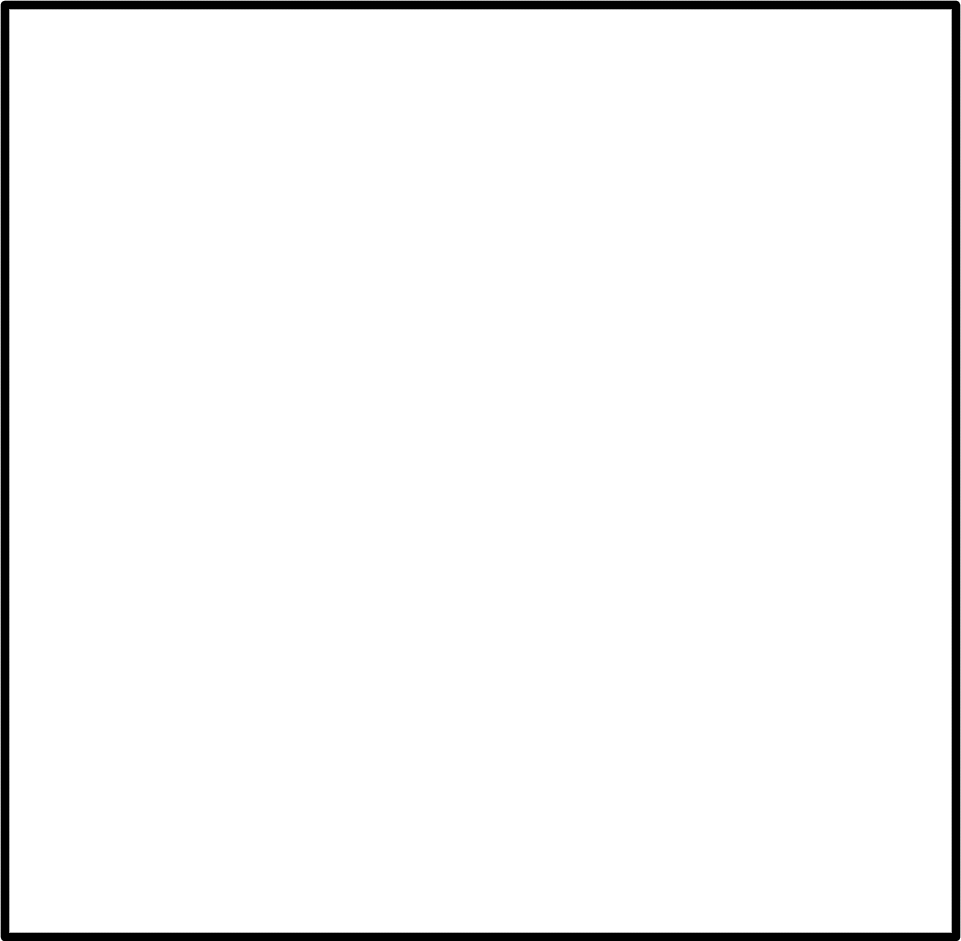
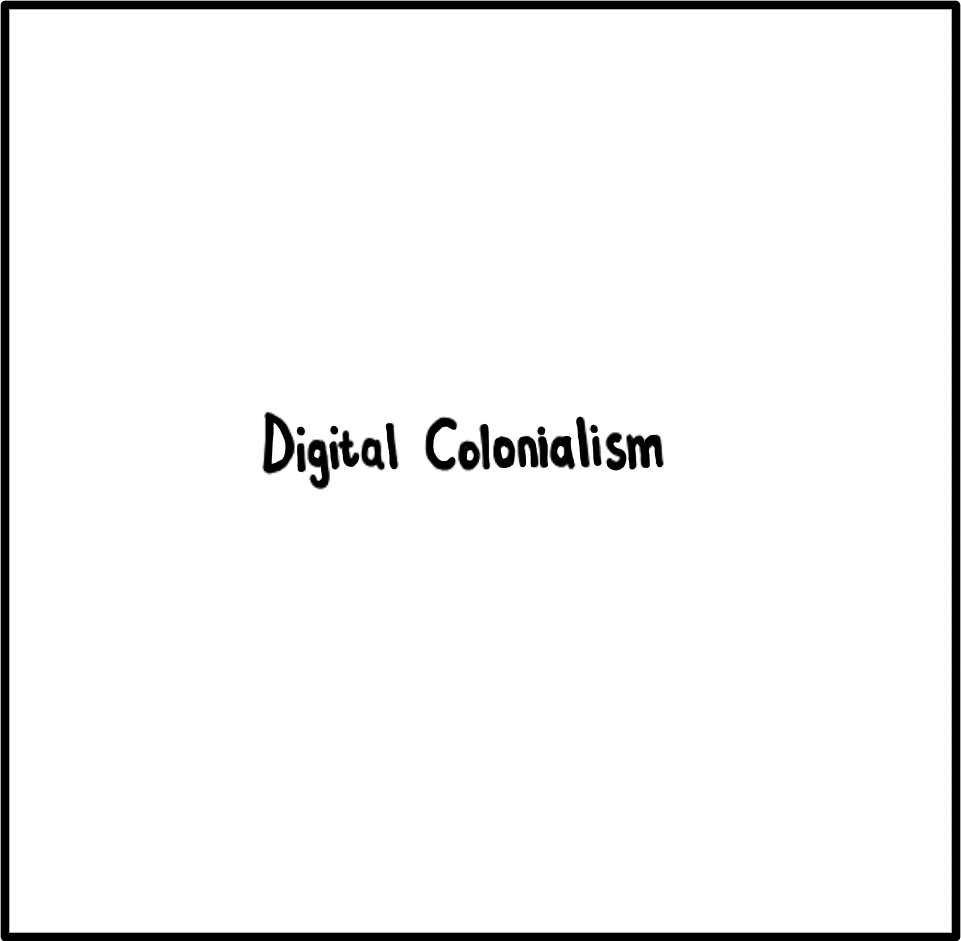
Edits

Changed region(s): [[0.2497, 0.4315, 0.6868, 0.5239]]

diff --git a/essays/essay2.html b/essays/essay2.html
@@ -7,7 +7,7 @@
     <meta name="description" content="Zandile Gebuza's Digital Art portfolio website">
     <meta name="description" content ="Essay 2 Page">
     <meta name="author" content="Zandile Gebuza">
-    <title></title>
+    <title>Digital Colonialism</title>
     <script type="module"> import { initialiseMenu } from "../scripts/menu.js" 
      initialiseMenu("Essays")</script>
     <script type ="module" src="../scripts/buttons.js"></script>
@@ -28,17 +28,41 @@ Zandile's Website
 </ul>
 </nav>
 
-    <h1 class="pageName"></h1>
+    <h1 class="pageName">DIGITAL COLONIALISM</h1>
 
     <article class="h-entry">
-    <h2></h2>
+    <h2>Context</h2>
     <p>
         
     </p>
-
+    
+    <h2>Paragraph 1</h2>
+    <p>
+        
+    </p>
+    
+    <h2>Paragraph 2</h2>
+    <p>
+        
+    </p>
+    
+    <h2>Paragraph 3</h2>
+    <p>
+        
+    </p>
+    
+    <h2>Conclusion</h2>
+    <p>
+        
+    </p>
+    
 <hr>
     <h3>References</h3>
     <ul>
+    <li><a href=""></a>.</li>
+    <li><a href=""></a>.</li>
+    <li><a href=""></a>.</li>
+    <li><a href=""></a>.</li>
     <li><a href=""></a>.</li>
     </ul> 
     </article>

diff --git a/blogs/index.html b/blogs/index.html
@@ -77,19 +77,19 @@ Zandile's Website
 <br>
 <details>
 	<summary>Week 11</summary>
-    <a href="week11.html"></a>
+    <a href="week11.html">Decolonising Technology</a>
 </details>
 
 <br>
 <details>
 	<summary>Week 12</summary>
-    <a href="week12.html"></a>
+    <a href="week12.html">Responsive Design</a>
 </details>
 
 <br>
 <details>
 	<summary>Week 13</summary>
-    <a href="week13.html"></a>
+    <a href="week13.html">Ethical INternet</a>
 </details>
 </main>
 

diff --git a/blogs/week12.html b/blogs/week12.html
@@ -28,10 +28,10 @@ Zandile's Website
 <h1 class="pageName">WEEK 12</h1>
 
     <article class="h-entry">
-    <h2 class="p-name"></h2>
+    <h2 class="p-name">Responsive Design</h2>
     <p>
         by <a class="p-author h-card" href="../portfolio/profile.html">Zandile Gebuza</a> 
-        on <time class="dt-published" datetime="2024-04-"> April 2024</time>
+        on <time class="dt-published" datetime="2024-04-">06 May 2024</time>
     </p>
 
     <h3></h3>

diff --git a/blogs/week13.html b/blogs/week13.html
@@ -28,10 +28,10 @@ Zandile's Website
 <h1 class="pageName">WEEK 13</h1>
 
 <article class="h-entry">
-    <h2 class="p-name"></h2>
+    <h2 class="p-name">Ethical Internet</h2>
     <p>
         by <a class="p-author h-card" href="../portfolio/profile.html">Zandile Gebuza</a> 
-        on <time class="dt-published" datetime="2024-04-"> April 2024</time>
+        on <time class="dt-published" datetime="2024-04-"> May 2024</time>
     </p>
     
     <h3></h3>
